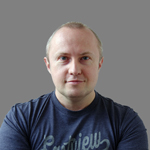
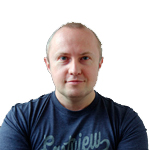
add shadow main corrected padding and margin change photo

diff --git a/GoForIT_Homework_01-02/css/styles.css b/GoForIT_Homework_01-02/css/styles.css
@@ -15,6 +15,17 @@ main {
 	margin-left: auto;
 	margin-right: auto;
 	background-color: white;
+	box-shadow: 0 0 2px;
+}
+
+main p {
+	margin-top: 25px;
+	margin-bottom: 35px;
+	line-height: 1.5;
+}
+
+main li {
+	line-height: 1.5;
 }
 
 .name-photo-info {
@@ -26,18 +37,19 @@ main {
 }
 
 .name-photo-info p {
+	margin-top: 5px;
 	text-align: left;
 }
 
 .info {
-	height: 170px;
+	height: 140px;
 	margin: 0px 50px;
 	padding: 0px 13px;
 	border-bottom: 1px solid black;
 }
 
 .contact-info {
-	height: 170px;
+	height: 140px;
 	margin: 0px 50px;
 	padding: 0px 13px;
 	border-bottom: 1px solid black;
